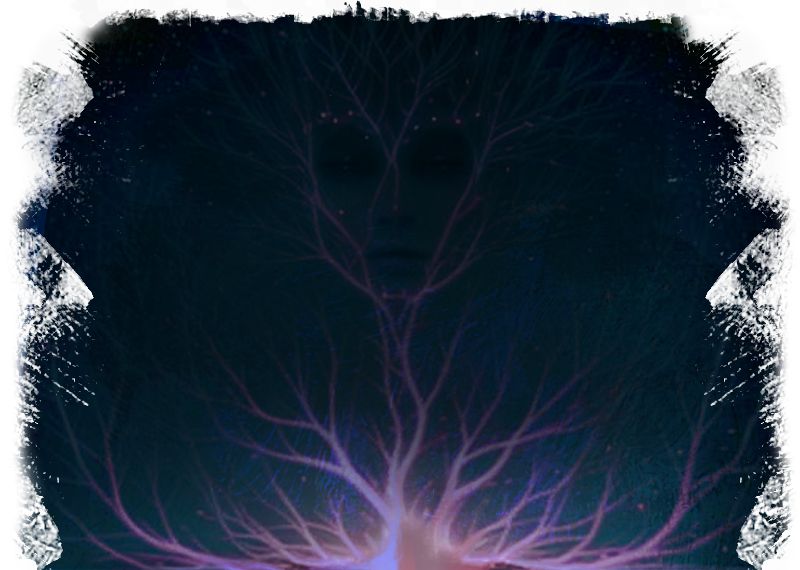
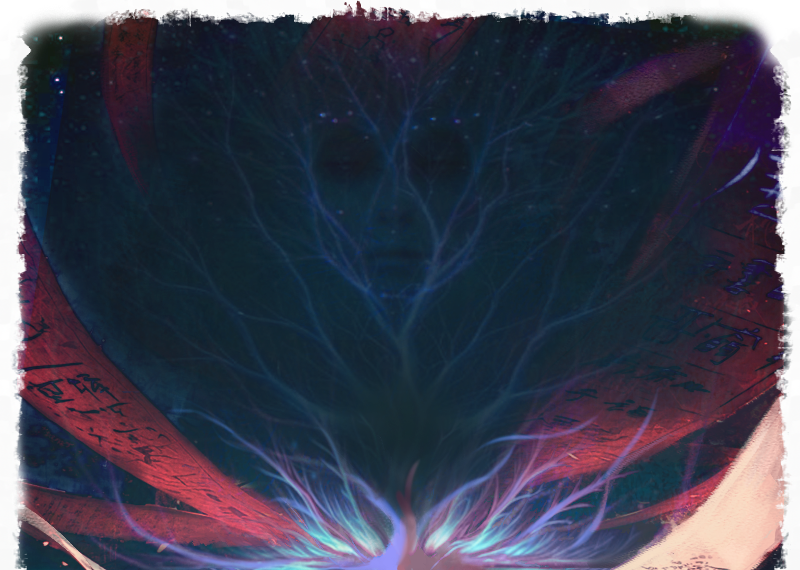
add tree art assets and adjust the look of the Mind and Body tree

diff --git a/client/src/components/ProfileBody.jsx b/client/src/components/ProfileBody.jsx
@@ -1,6 +1,7 @@
 import { useEffect, useRef, useState } from 'react';
 import { useSelector } from 'react-redux';
 import p5 from 'p5';
+import GoalHolder from './GoalHolder';
 
 
 
@@ -56,28 +57,32 @@ export default function ProfileBody() {
       prog = 1,
       growing = false,
       //mutating = false,
-      randSeed = 80,
+      randSeed = 398,
       //paramSeed = Math.floor(Math.random() * 1000),
       randBias = 0;
 
 
+
+
     //get width of parent div
     let b = document.getElementById("treeHolder");
-    let w = b.clientWidth;
+    let w = 0;
+    b.clientWidth < 800 ? (w = b.clientWidth) : (w = 800);
     let h = 0;
+
 
     p.getHeight = (w) => {
       if (w <= 400) {
         h = 330;
       }
 
-      else if (w / 2 <= 650) {
-        h = w / 1.2;
+      else if (w / 2 <= 800) {
+        h = w / 1.4;
 
       }
 
-      if (w > 650) {
-        h = 650;
+      if (w > 800) {
+        h = 600;
       }
     }
 
@@ -87,7 +92,7 @@ export default function ProfileBody() {
 
     p.getScale = (h) => {
       if (h < 580) {
-        treeScale = (h / 580);
+        treeScale = (h / 580 - 0.1);
       }
 
     }
@@ -96,11 +101,7 @@ export default function ProfileBody() {
 
     const Y_AXIS = 1;
 
-    var backgroundImage = p.loadImage('treeBGBody.png');
-
-
-    var colorTop = p.color(83, 137, 166);
-    var colorBottom = p.color(166, 220, 238);
+    var backgroundImage = p.loadImage('BodyTreeBackground.png');
 
 
     p.setup = () => {
@@ -190,34 +191,6 @@ export default function ProfileBody() {
 
 
 
-
-      // button_randomParams = createButton('Set level to 0.72');
-      // button_randomParams.position(10, 1200);
-      // button_randomParams.mousePressed(function () {
-
-
-
-      //     slider_level.value(13);
-
-      //     readInputs(true);
-      // });
-
-      //Darker Color
-      //b1 = p.color(39, 40, 39);
-      // b2 = color(125, 169, 154);
-
-      //Lighter Color
-      //b2 = p.color(56, 134, 151);
-
-      //div_inputs = createDiv('ooga');
-
-      //mX = mouseX;
-      //mY = mouseY;
-      //panX = 0;
-      //panY = 0;
-
-
-
       p.readInputs(false);
       p.startGrow();
 
@@ -272,8 +245,7 @@ export default function ProfileBody() {
 
     p.windowResized = () => {
       b = document.getElementById("treeHolder");
-      w = b.clientWidth;
-
+      b.clientWidth < 800 ? (w = b.clientWidth) : (w = 800);
       p.getHeight(w);
 
       p.resizeCanvas(w, h);
@@ -290,8 +262,11 @@ export default function ProfileBody() {
       //p.background(220, 0);
 
       p.background(backgroundImage);
+      //p.background('#ffffff');
       //p.setGradient(0, 0, w, h, colorTop, colorBottom, Y_AXIS);
-      p.stroke('#38211c');
+
+
+      //p.stroke('#2b4e46');
 
 
       p.translate(w / 2, h);
@@ -300,7 +275,7 @@ export default function ProfileBody() {
 
       p.scale(treeScale, -treeScale);
 
-      console.log('Tree Scale: ' + treeScale);
+      //console.log('Tree Scale: ' + treeScale);
 
       p.translate(0, 0);
 
@@ -320,11 +295,28 @@ export default function ProfileBody() {
 
       var growthLevel = (prog - level > 1) || (prog >= maxLevel + 1) ? 1 : (prog - level);
 
-      p.strokeWeight(15 * Math.pow((maxLevel - level + 1) / maxLevel, 2));
+
 
       var len = growthLevel * size * (1 + p.rand2() * lenRand);
 
+
+      let col = p.map((10 * Math.pow((maxLevel - level + 1) / maxLevel, 2)), 1, 10, 140, 240);
+
+      let colLeft = 255;
+      let colMiddle = 150;
+      let colRight = 150;
+
+      
+      p.drawingContext.shadowBlur = 15;
+      p.drawingContext.shadowColor = p.color(colLeft, col, colRight);
+  
+
+      p.strokeWeight(15 * Math.pow((maxLevel - level + 1) / maxLevel, 2));
+      p.stroke(colLeft, col, colRight, 255)
       p.line(0, 0, 0, len / level);
+
+      p.drawingContext.shadowBlur = 0;
+
       p.translate(0, len / level);
 
 
@@ -357,18 +349,15 @@ export default function ProfileBody() {
 
         var flowerSize = (size / 100) * cunt * (1 / 6) * (len / level);
 
-        p.strokeWeight(p.random(4,6));
-        p.stroke(52 + 15 * p.rand2(), 107 + 15 * p.rand2(), 48 + 15 * p.rand2());
+        p.strokeWeight(4);
+        p.stroke(240 + 15 * p.rand2(), 230 + 15 * p.rand2(), 204 + 15 * p.rand2());
 
         p.rotate(-PI);
-
         for (var i = 0; i <= 8; i++) {
-          p.line(0, 0, 0, flowerSize * (1 + 0.5 * p.rand2()));
+          p.line(0, 0, 0, flowerSize * (1.2 + 0.5 * p.rand2()));
           p.rotate(2 * PI / 8);
         }
-
       }
-      
     }
 
     p.startGrow = () => {
@@ -393,6 +382,9 @@ export default function ProfileBody() {
       setTimeout(p.grow, Math.max(1, 20 - diff));
     }
 
+    p.randBark = () => {
+      return p.random(25, 100);
+    }
 
     p.rand = () => {
       return p.random(1000) / 1000;
@@ -430,9 +422,11 @@ export default function ProfileBody() {
 
   }
 
+
   useEffect(() => {
     const myP5 = new p5(Sketch)
-  }, []);
+  }, [currentUser]);
+
 
 
 
@@ -440,15 +434,24 @@ export default function ProfileBody() {
     <div className='w-full min-h-screen'>
 
 
-      {/* Intro Container */}
+      {/* Main */}
       <div className=' mx-auto pb-10 flex flex-col justify-center'>
 
-        <div id="treeHolder" className='border-b-2 border-slate-800 mb-2'></div>
+        {/* Tree container */}
+        <div id="treeHolder" className='bg-white flex justify-center items-center'></div>
+        <div id="BodyUnderTree" className='flex justify-center items-center bg-white border-b-2 border-slate-800 mb-2'>
+          <img src="/BodyUnderTree.png" alt='under tree picture' className=' w-fit' />
+        </div>
 
-
+        {/* Button Container */}
         <div id="buttonHolder" className='mb-20'>
+          {/* Tree Sliders Container */}
           <div id="sliderHolder"></div>
         </div>
+
+        <GoalHolder />
+
+
 
       </div>
     </div>

diff --git a/client/src/components/ProfileMind.jsx b/client/src/components/ProfileMind.jsx
@@ -1,8 +1,6 @@
 import { useEffect, useRef, useState } from 'react';
 import { useSelector } from 'react-redux';
 import p5 from 'p5';
-import GoalsComp from './Goals';
-import HabitsComp from './Habits';
 import GoalHolder from './GoalHolder';
 
 
@@ -59,7 +57,7 @@ export default function ProfileMind() {
       prog = 1,
       growing = false,
       //mutating = false,
-      randSeed = 80,
+      randSeed = 398,
       //paramSeed = Math.floor(Math.random() * 1000),
       randBias = 0;
 
@@ -105,16 +103,6 @@ export default function ProfileMind() {
 
     var backgroundImage = p.loadImage('MindTreeBackground.png');
     
-    let tmaxLen;
-    let tminLen;
-
-    var barkColor = 110;
-    console.log(barkColor);
-
-    var colorTop = p.color(56, 134, 151);
-    var colorBottom = p.color(157, 182, 207);
-
-
     p.setup = () => {
 
       console.log('width: ' + w);
@@ -200,39 +188,11 @@ export default function ProfileMind() {
       button_hide.id('hideButton');
       button_hide.mousePressed(p.buttonHide = () => { p.showHide() });
 
+      //button_newSeed = p.createButton('New Seed');
+      //button_hide.position();
+      //button_hide.parent("buttonHolder");
 
-
-
-      // button_randomParams = createButton('Set level to 0.72');
-      // button_randomParams.position(10, 1200);
-      // button_randomParams.mousePressed(function () {
-
-
-
-      //     slider_level.value(13);
-
-      //     readInputs(true);
-      // });
-
-      //Darker Color
-      //b1 = p.color(39, 40, 39);
-      // b2 = color(125, 169, 154);
-
-      //Lighter Color
-      //b2 = p.color(56, 134, 151);
-
-      //div_inputs = createDiv('ooga');
-
-      //mX = mouseX;
-      //mY = mouseY;
-      //panX = 0;
-      //panY = 0;
-
-      tmaxLen = h*0.16;
-      tminLen = tmaxLen * 0.1;
-      
-
-
+      //button_newSeed.mousePressed(p.getSeed = () => { randSeed = p.random(1,500); console.log('RandSeed: ' + randSeed); });
 
       p.readInputs(false);
       p.startGrow();
@@ -345,24 +305,34 @@ export default function ProfileMind() {
 
       let col = p.map((10 * Math.pow((maxLevel - level + 1) / maxLevel, 2)), 1, 10, 100, 240);
 
+      let barkColor = 110;
 
       let colLeft = col;
       let colMiddle = col * 0.70;
       let colRight = col * 0.60;
      
 
-   
+      //p.drawingContext.shadowColor = p.color(150, 110, 250);
+      
       p.strokeWeight(16 * Math.pow((maxLevel - level + 1) / maxLevel, 6));
-      p.stroke(150, barkColor +40, 250, 255 )
+      p.stroke(150, barkColor + 40, 250, 255 )
       p.line(0, 0, 0, len / level);
+      
+      
+      p.drawingContext.shadowBlur = 10;
+      p.drawingContext.shadowColor = p.color(colMiddle, 110, 250);      
 
       p.strokeWeight(14 * Math.pow((maxLevel - level + 1) / maxLevel, 2));
       p.stroke(colMiddle, barkColor, 130, 255)
       p.line((6 * Math.pow((maxLevel - level + 1) / maxLevel, 2)), 0, (6 * Math.pow((maxLevel - level + 1) / maxLevel, 2)), len / level);
+      
+
+      p.drawingContext.shadowBlur = 0;
 
       p.strokeWeight(12 * Math.pow((maxLevel - level + 1) / maxLevel, 2));
       p.stroke(colRight, barkColor,130, 255)
       p.line((12 * Math.pow((maxLevel - level + 1) / maxLevel, 2)), 0, (12 * Math.pow((maxLevel - level + 1) / maxLevel, 2)), len / level);
+      
 
       p.translate(0, len / level);
 
@@ -397,7 +367,7 @@ export default function ProfileMind() {
         var flowerSize = (size / 100) * cunt * (1 / 6) * (len / level);
 
         p.strokeWeight(4);
-        p.stroke(140 + 15 * p.rand2(), 155 + 15 * p.rand2(), 240 + 15 * p.rand2());
+        p.stroke(204 + 15 * p.rand2(), 50 + 15 * p.rand2(), 40 + 15 * p.rand2());
 
         p.rotate(-PI);
         for (var i = 0; i <= 8; i++) {
@@ -469,22 +439,6 @@ export default function ProfileMind() {
 
   }
 
-  {/**/}
-  const [goalsToggle, setGoalsToggle] = useState();
-  const [habitsToggle, setHabitsToggle] = useState();
-  
-  const toggleGoals = () => {
-    setHabitsToggle(false);
-    setGoalsToggle(true);
-    console.log('Goals On');
-
-  };
-  
-  const toggleHabits = () => {
-    setGoalsToggle(false);
-    setHabitsToggle(true);
-    console.log('Habits On');
-  };
   
   useEffect(() => {
     const myP5 = new p5(Sketch)
